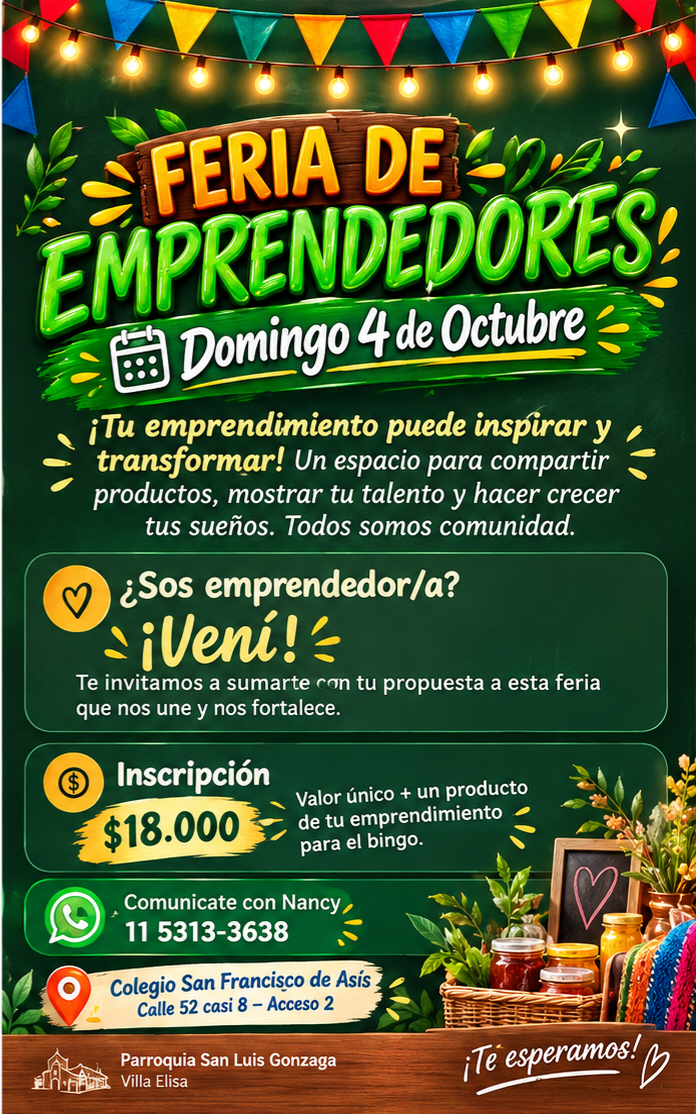
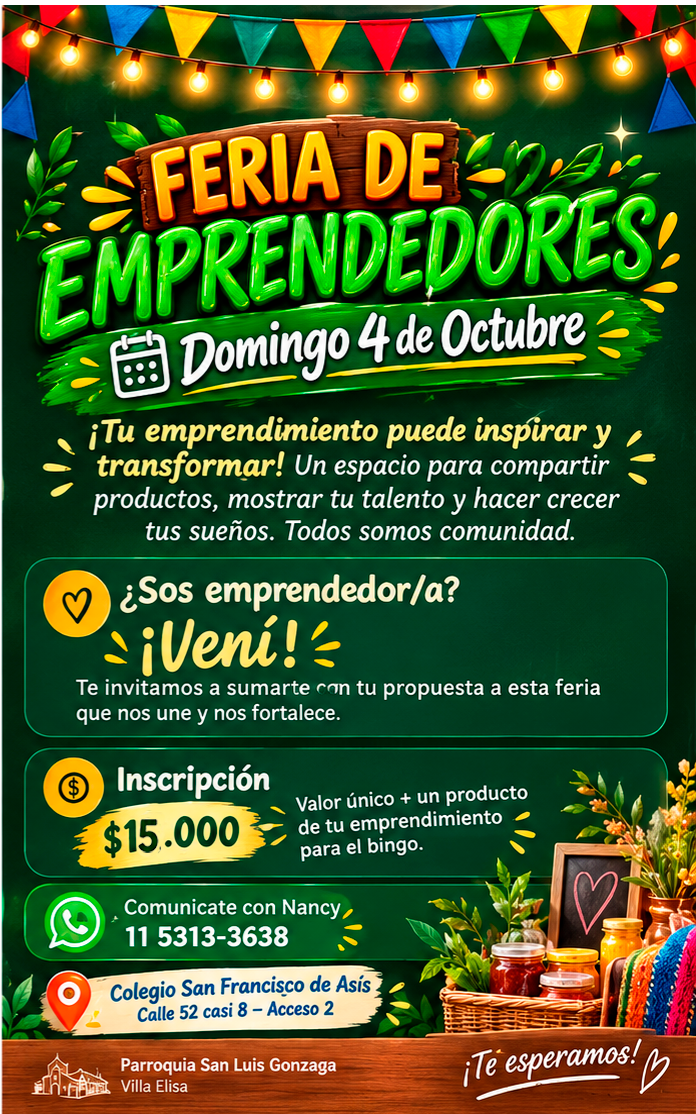
slidesnuevos

diff --git a/index.html b/index.html
@@ -1142,7 +1142,7 @@ hide-mobile
       card3-body-img-mobile="./logos/body3-mob.png"
 
       panel1-title="¿Tenés un emprendimiento?"
-      panel2-price="$18.000"
+      panel2-price="$15.000"
       poster="main"
       img-santo-feria="false"
       willow-feria="true"
